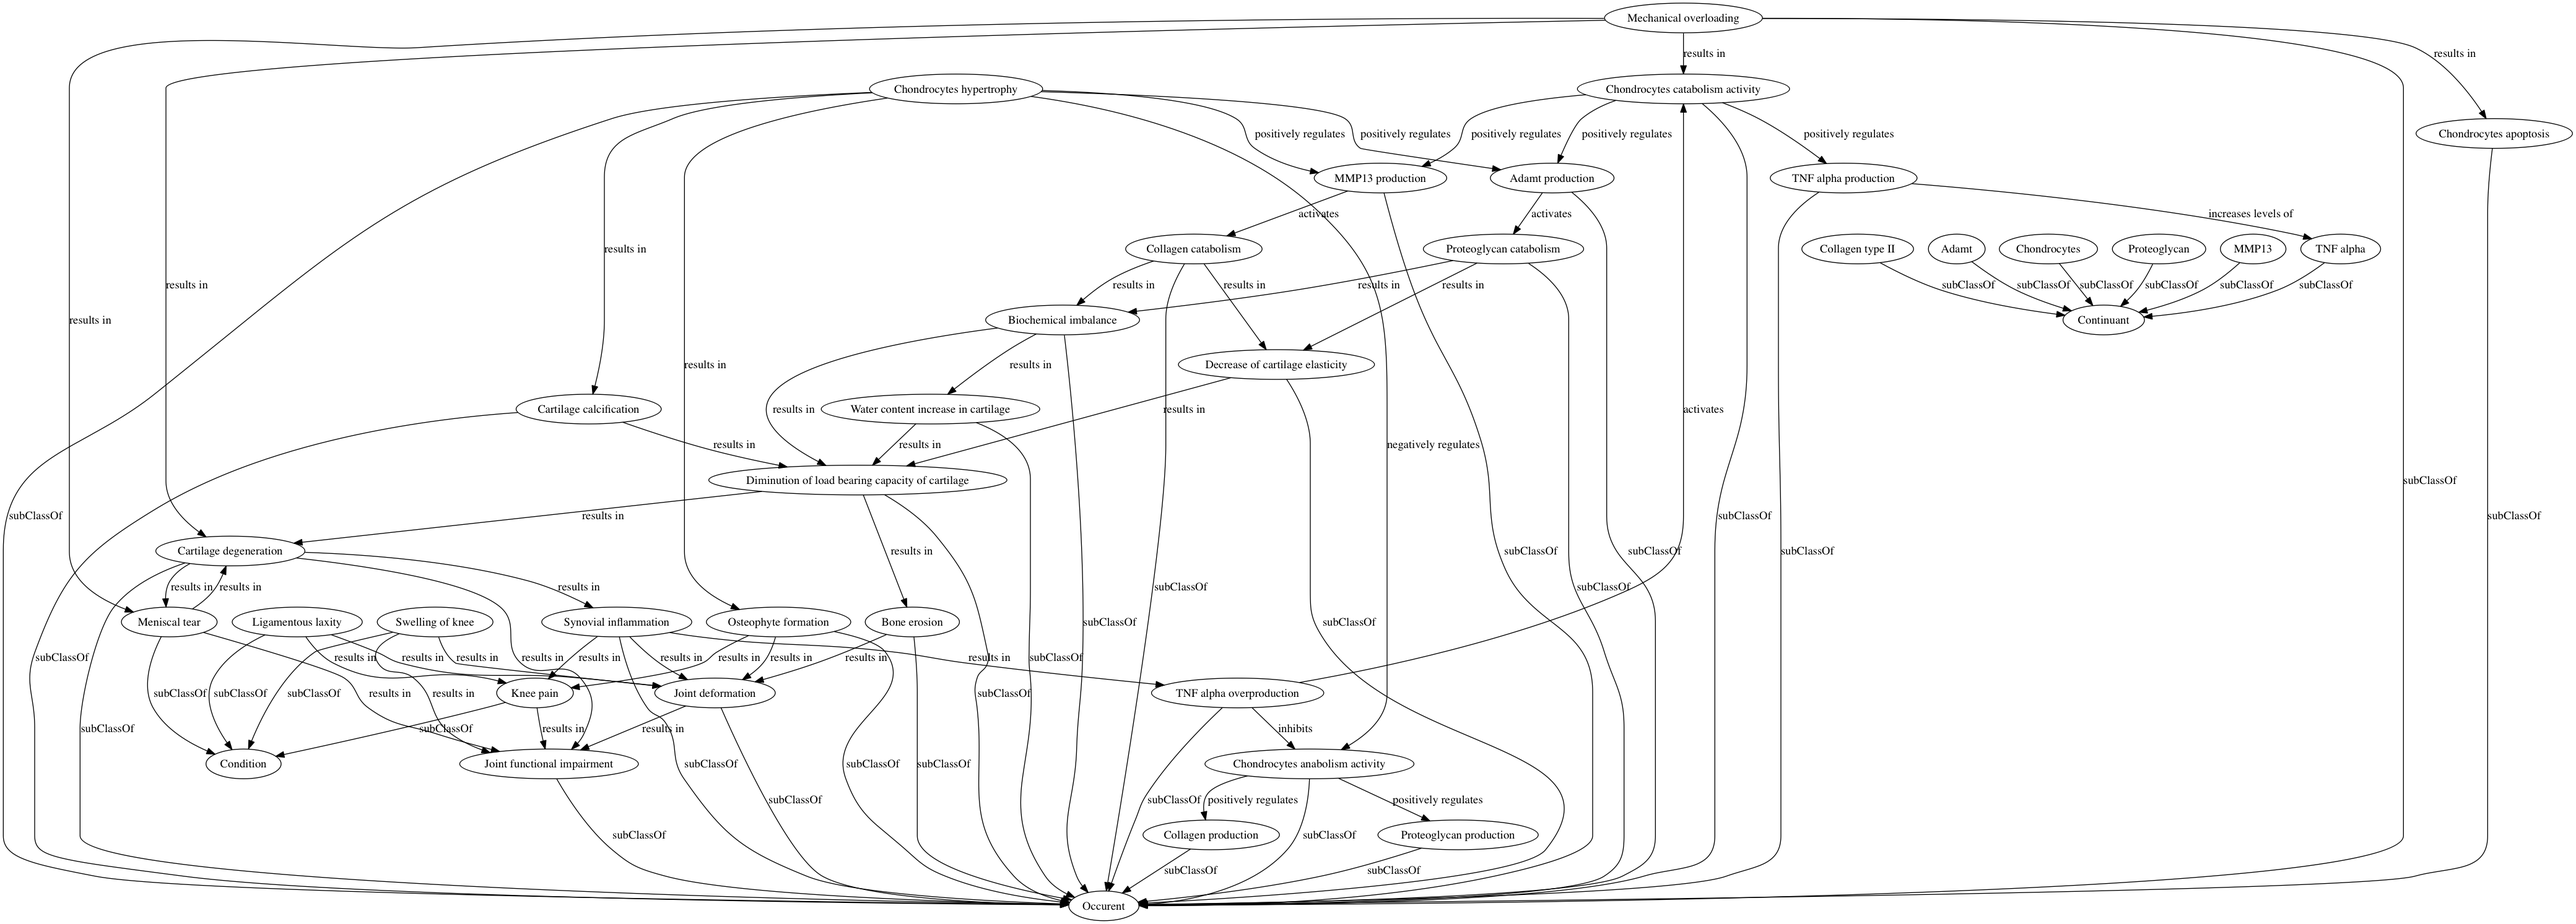
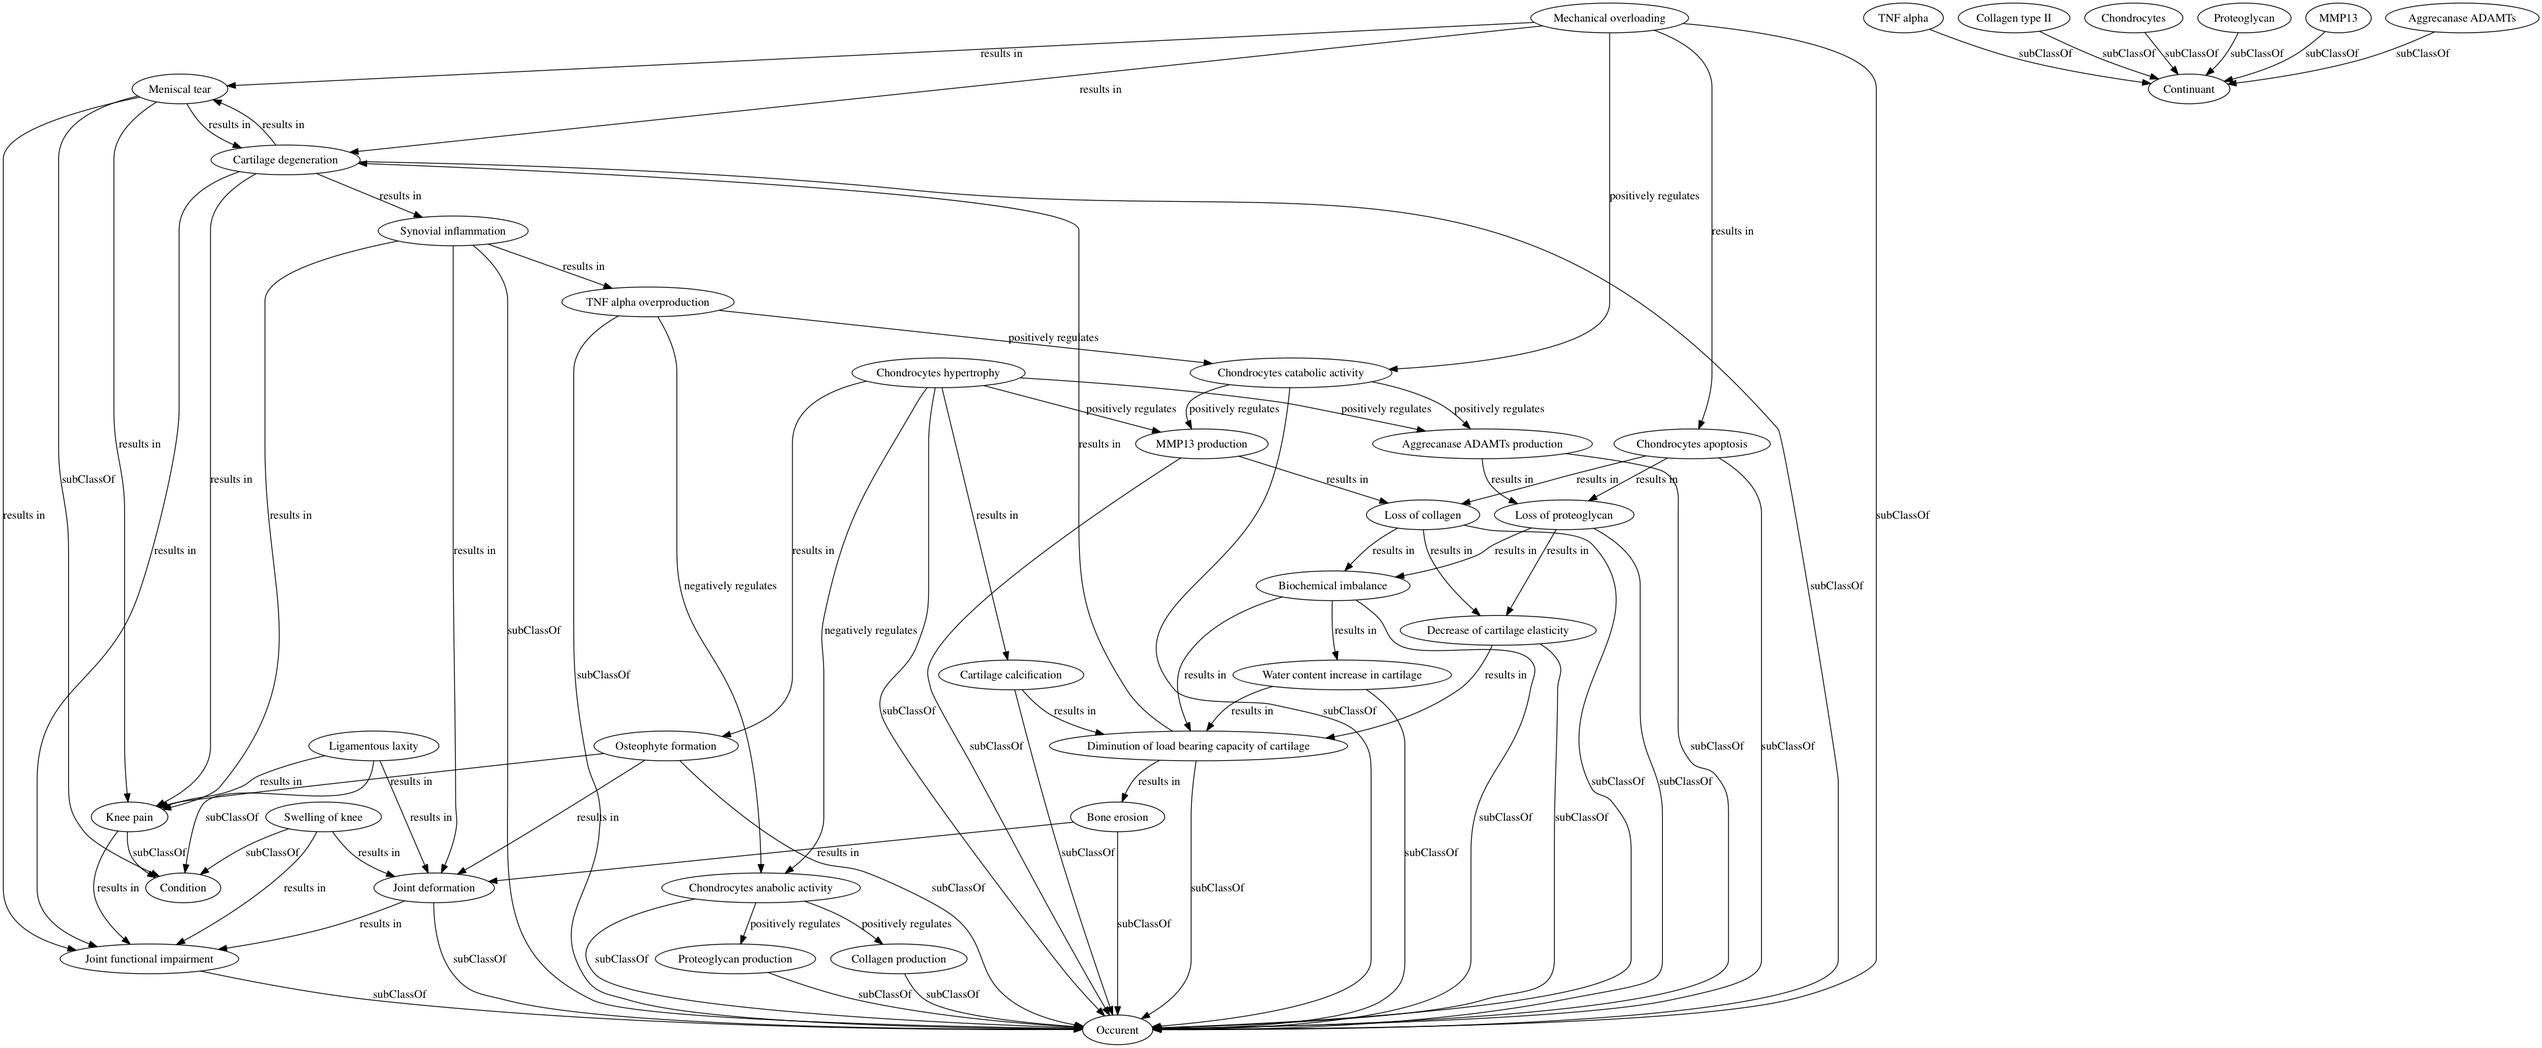
adds corrections to the hypothesis provided by Marta

diff --git a/grontocrawler/sample_ontology/hypo_ontology_with_mistakes.py b/grontocrawler/sample_ontology/hypo_ontology_with_mistakes.py
@@ -2,8 +2,11 @@
 # -*- coding: utf-8 -*-
 
 # # Sample ontology on which we test grontocrawler
+#
+# Please pay attention that it does contain some mistakes
+#
 from rdflib.extras.infixowl import (
-        Ontology, Class, Property, CastClass, some
+        Class, Property, CastClass, some
     )
 from rdflib import Namespace, Graph, OWL, Literal
 from rdflib.namespace import NamespaceManager
@@ -14,12 +17,6 @@ ns_manager.bind('hypo', ns, override=False)
 ns_manager.bind('owl', OWL, override=False)
 g = Graph()
 g.namespace_manager = ns_manager
-
-
-ontology = Ontology(
-        ns.identifier,
-        comment=Literal('defined by: Asan Agibetov, Marta Ondresik, Ernesto Jimenez-Ruiz'),
-        graph=g)
 
 
 # ## Main classes
@@ -81,14 +78,14 @@ mmp13 = Class(
         ns.MMP13,
         graph=g,
         subClassOf=[con],
-        comment=Literal('Enzyme which is capable of catalyzing chondrocytes catabolic activity, i.e., break down of collagen and proteoglycans')
+        comment=Literal('Enzyme which is capable of catalyzing chondrocytes catabolism activity, i.e., break down of collagen and proteoglycans')
     )
 
 adamt = Class(
-        ns.Aggrecanase_ADAMTs,
+        ns.Adamt,
         graph=g,
         subClassOf=[con],
-        comment=Literal('Enzyme which is capable of catalyzing chondrocytes catabolic activity, i.e., break down of collagen and proteoglycans')
+        comment=Literal('Enzyme which is capable of catalyzing chondrocytes catabolism activity, i.e., break down of collagen and proteoglycans')
     )
 
 # ## Atomic occurrents
@@ -98,18 +95,18 @@ adamt = Class(
 # molecules
 
 # ## Processes linked with `chondrocytes`
-chondro_anabolic = Class(
-        ns.Chondrocytes_anabolic_activity,
+chondro_anabolism = Class(
+        ns.Chondrocytes_anabolism_activity,
         graph=g,
         subClassOf=[occ],
-        comment=Literal('Chondrocytes anabolic activity is the process of construction of molecules from smaller units')
+        comment=Literal('Chondrocytes anabolism activity is the process of construction of molecules from smaller units')
     )
 
-chondro_catabolic = Class(
-        ns.Chondrocytes_catabolic_activity,
+chondro_catabolism = Class(
+        ns.Chondrocytes_catabolism_activity,
         graph=g,
         subClassOf=[occ],
-        comment=Literal('Chondrocytes catabolic activity is the process of separation of molecules. Opposite of chondrocytes anabolism')
+        comment=Literal('Chondrocytes catabolism activity is the process of separation of molecules. Opposite of chondrocytes anabolism')
     )
 
 chondro_apoptosis = Class(
@@ -129,23 +126,23 @@ chondro_hyper = Class(
 # processes linked with production of molecules
 collagen_production = Class(ns.Collagen_production, graph=g, subClassOf=[occ])
 proteoglycan_production = Class(ns.Proteoglycan_production, graph=g, subClassOf=[occ])
-# tnf_production = Class(ns.TNF_alpha_production, graph=g, subClassOf=[occ])
+tnf_production = Class(ns.TNF_alpha_production, graph=g, subClassOf=[occ])
 mmp13_production = Class(ns.MMP13_production, graph=g, subClassOf=[occ])
-adamt_production = Class(ns.Aggrecanase_ADAMTs_production, graph=g, subClassOf=[occ])
+adamt_production = Class(ns.Adamt_production, graph=g, subClassOf=[occ])
 
 # processes linked with catabolism of molecules
-collagen_loss = Class(
-        ns.Loss_of_collagen,
+collagen_catabolism = Class(
+        ns.Collagen_catabolism,
         graph=g,
         subClassOf=[occ],
-        comment=Literal('Loss of collagen molecules, a process which reduces the levels of collagen molecules')
+        comment=Literal('Catabolism of collagen molecules, a process which reduces the levels of collagen molecules')
     )
 
-proteoglycan_loss = Class(
-        ns.Loss_of_proteoglycan,
+proteoglycan_catabolism = Class(
+        ns.Proteoglycan_catabolism,
         graph=g,
         subClassOf=[occ],
-        comment=Literal('Loss of proteoglycan molecules, a process which reduces the levels of proteoglycan molecules')
+        comment=Literal('Catabolism of proteoglycan molecules, a process which reduces the levels of proteoglycan molecules')
     )
 
 # processes which are hidden, our system should suggest them
@@ -282,13 +279,13 @@ meniscal_tear = Class(
 # * adamt digest available proteoglyecan
 
 # assigning new parents only adds them, previous parents are not deleted
-chondro_anabolic.subClassOf = [
+chondro_anabolism.subClassOf = [
         (positively_regulates | some | collagen_production),
         (positively_regulates | some | proteoglycan_production)
     ]
 
-chondro_catabolic.subClassOf = [
-        # (positively_regulates | some | tnf_production),
+chondro_catabolism.subClassOf = [
+        (positively_regulates | some | tnf_production),
         (positively_regulates | some | mmp13_production),
         (positively_regulates | some | adamt_production)
     ]
@@ -296,26 +293,26 @@ chondro_catabolic.subClassOf = [
 chondro_hyper.subClassOf = [
         (positively_regulates | some | mmp13_production),
         (positively_regulates | some | adamt_production),
-        (negatively_regulates | some | chondro_anabolic),
+        (negatively_regulates | some | chondro_anabolism),
         (results_in | some | cartilage_calcification),
         (results_in | some | osteophyte_formation)
     ]
 
 tnf_overproduction.subClassOf = [
-        (negatively_regulates | some | chondro_anabolic),
-        (positively_regulates | some | chondro_catabolic)
+        (inhibits | some | chondro_anabolism),
+        (activates | some | chondro_catabolism)
     ]
 
-# tnf_production.subClassOf = [
-#         (increases_levels_of | some | tnf_alpha)
-#     ]
+tnf_production.subClassOf = [
+        (increases_levels_of | some | tnf_alpha)
+    ]
 
 mmp13_production.subClassOf = [
-        (results_in | some | collagen_loss)
+        (activates | some | collagen_catabolism)
     ]
 
 adamt_production.subClassOf = [
-        (results_in | some | proteoglycan_loss)
+        (activates | some | proteoglycan_catabolism)
     ]
 
 synovial_inflammation.subClassOf = [
@@ -324,26 +321,21 @@ synovial_inflammation.subClassOf = [
         (results_in | some | joint_deformation)
     ]
 
-chondro_apoptosis.subClassOf = [
-        (results_in | some | collagen_loss),
-        (results_in | some | proteoglycan_loss)
-    ]
-
 # ## Causal relations outside of the cellular level
 #
 mechanical_overloading.subClassOf = [
-        (positively_regulates | some | chondro_catabolic),
+        (results_in | some | chondro_catabolism),
         (results_in | some | chondro_apoptosis),
         (results_in | some | cartilage_degeneration),
         (results_in | some | meniscal_tear)
     ]
 
-collagen_loss.subClassOf = [
+collagen_catabolism.subClassOf = [
         (results_in | some | decrease_cartilage_elasticity),
         (results_in | some | biochemical_imbalance)
     ]
 
-proteoglycan_loss.subClassOf = [
+proteoglycan_catabolism.subClassOf = [
         (results_in | some | decrease_cartilage_elasticity),
         (results_in | some | biochemical_imbalance)
     ]
@@ -378,8 +370,7 @@ osteophyte_formation.subClassOf = [
     ]
 
 cartilage_degeneration.subClassOf = [
-        (results_in | some | joint_functional_impairment),
-        (results_in | some | knee_pain)
+        (results_in | some | joint_functional_impairment)
     ]
 
 ligamentous_laxity.subClassOf = [
@@ -413,6 +404,5 @@ cartilage_degeneration.subClassOf = [
 
 meniscal_tear.subClassOf = [
         (results_in | some | cartilage_degeneration),
-        (results_in | some | joint_functional_impairment),
-        (results_in | some | knee_pain)
+        (results_in | some | joint_functional_impairment)
     ]

diff --git a/test/test_graph_creation.py b/test/test_graph_creation.py
@@ -15,7 +15,7 @@ from rdflib.extras.infixowl import CastClass
 # please note, that in our environment, after importing `sample_ontology`, we
 # will have many variables such as mapped OWL classes and `g, ns` - rdflib
 # graph, and the namespace
-from grontocrawler.sample_ontology.hypo_ontology import *
+from grontocrawler.sample_ontology.hypo_ontology_with_mistakes import *
 from grontocrawler.graph import produce_arcs, produce_nodes
 from grontocrawler.entity_mapper import entity_mapper
 from grontocrawler.utils import graph_utils

diff --git a/test/test_axioms_iterators.py b/test/test_axioms_iterators.py
@@ -16,7 +16,7 @@ from rdflib import RDF, RDFS, OWL, BNode, URIRef
 # please note, that in our environment, after importing `sample_ontology`, we
 # will have many variables such as mapped OWL classes and `g, ns` - rdflib
 # graph, and the namespace
-from grontocrawler.sample_ontology.hypo_ontology import *
+from grontocrawler.sample_ontology.hypo_ontology_with_mistakes import *
 from grontocrawler.axioms import axiom_iterators
 
 # Check that subclass axioms are correctly iterated

diff --git a/test/test_entity_mapper.py b/test/test_entity_mapper.py
@@ -16,7 +16,7 @@ from rdflib import RDF, RDFS, OWL
 # please note, that in our environment, after importing `sample_ontology`, we
 # will have many variables such as mapped OWL classes and `g, ns` - rdflib
 # graph, and the namespace
-from grontocrawler.sample_ontology.hypo_ontology import *
+from grontocrawler.sample_ontology.hypo_ontology_with_mistakes import *
 from grontocrawler.entity_mapper import entity_mapper
 
 # # Test entity mapper

diff --git a/test/test_bnode_utils.py b/test/test_bnode_utils.py
@@ -18,7 +18,7 @@ from rdflib.extras.infixowl import some
 # please note, that in our environment, after importing `sample_ontology`, we
 # will have many variables such as mapped OWL classes and `g, ns` - rdflib
 # graph, and the namespace
-from grontocrawler.sample_ontology.hypo_ontology import *
+from grontocrawler.sample_ontology.hypo_ontology_with_mistakes import *
 from grontocrawler.utils import bnode_utils
 
 

diff --git a/TODO.md b/TODO.md
@@ -4,6 +4,8 @@ Grontocrawler is an OWL ontology to directed graph transformation tool. It uses
 a rule-based approach to produce arcs among the concepts, each arc is justified
 by a set of OWL axioms. Below we maintain a list of things to be done.
 
+## Graph transformation
+
 * [ ] propagation of is-a arcs
 * [ ] add concept annotations to distinguish from biological scales
 * [ ] subontology generation based on the ratio of included axioms
